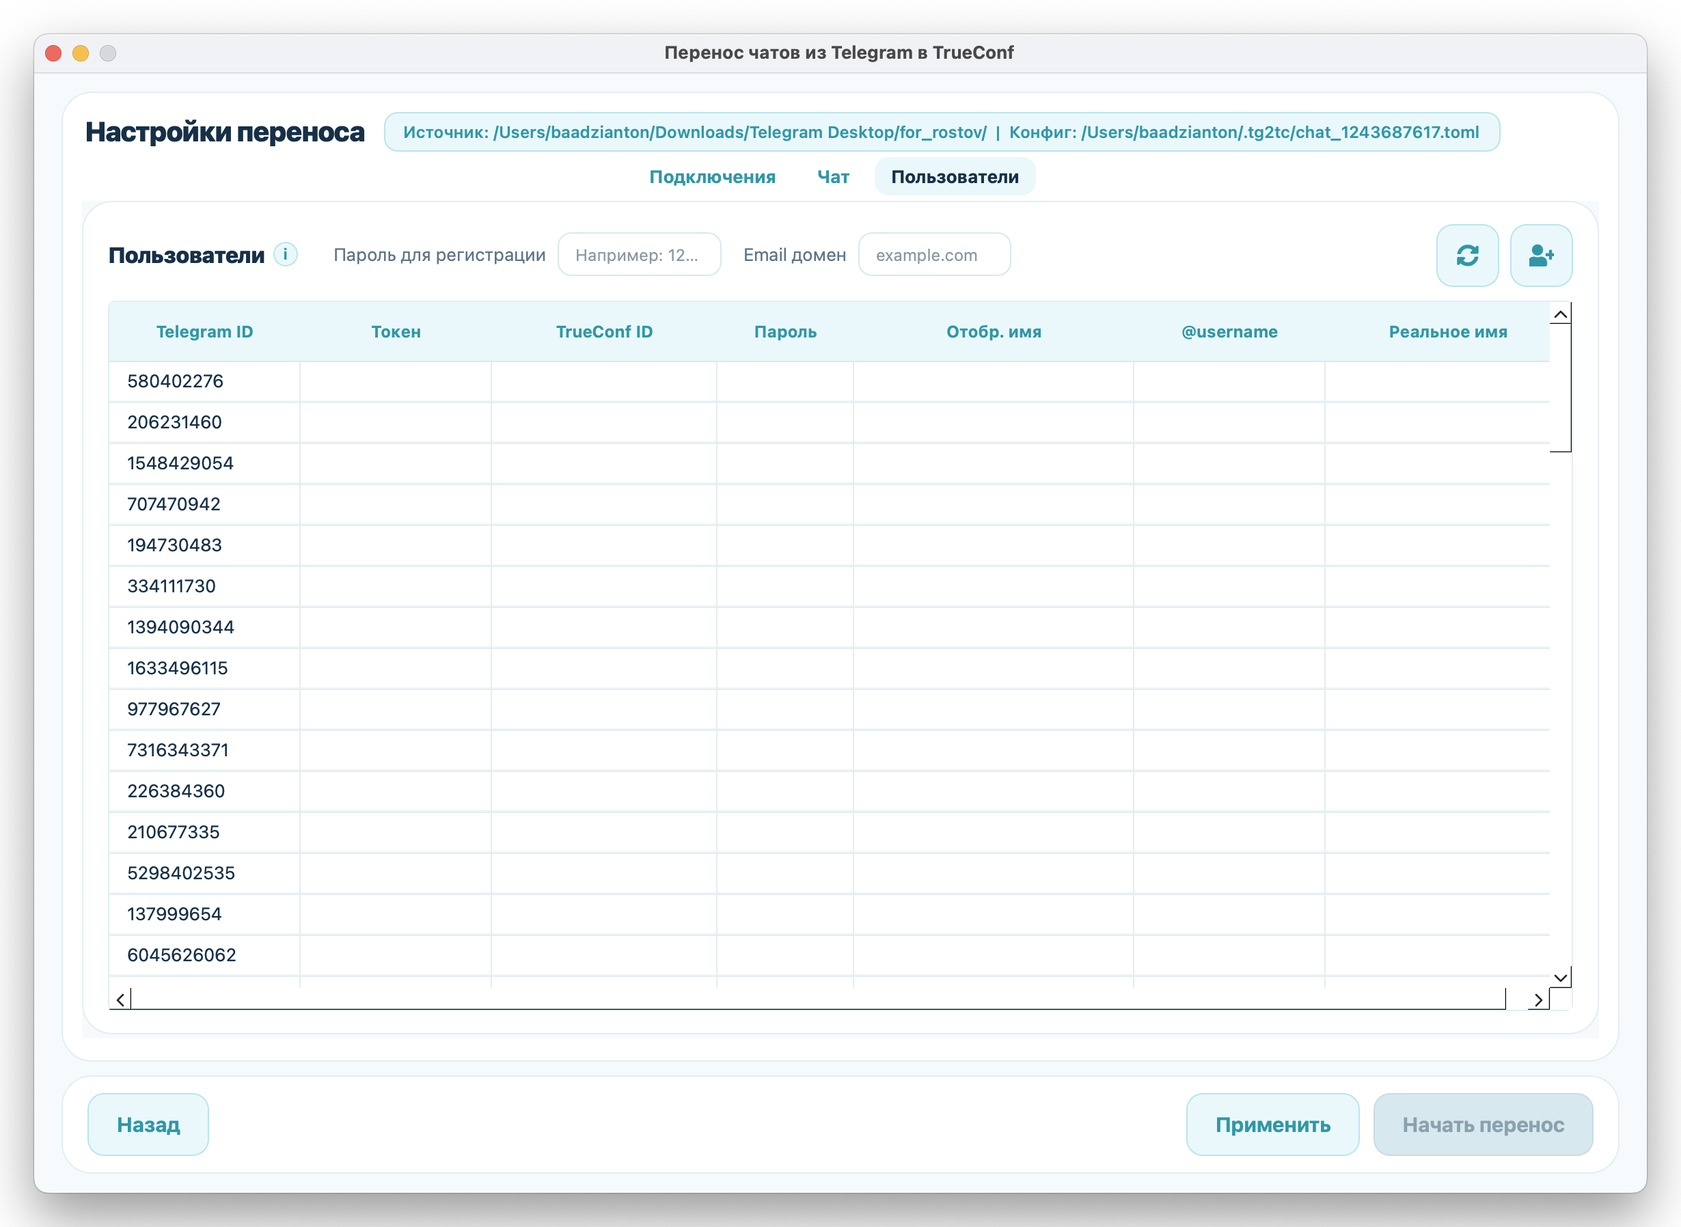
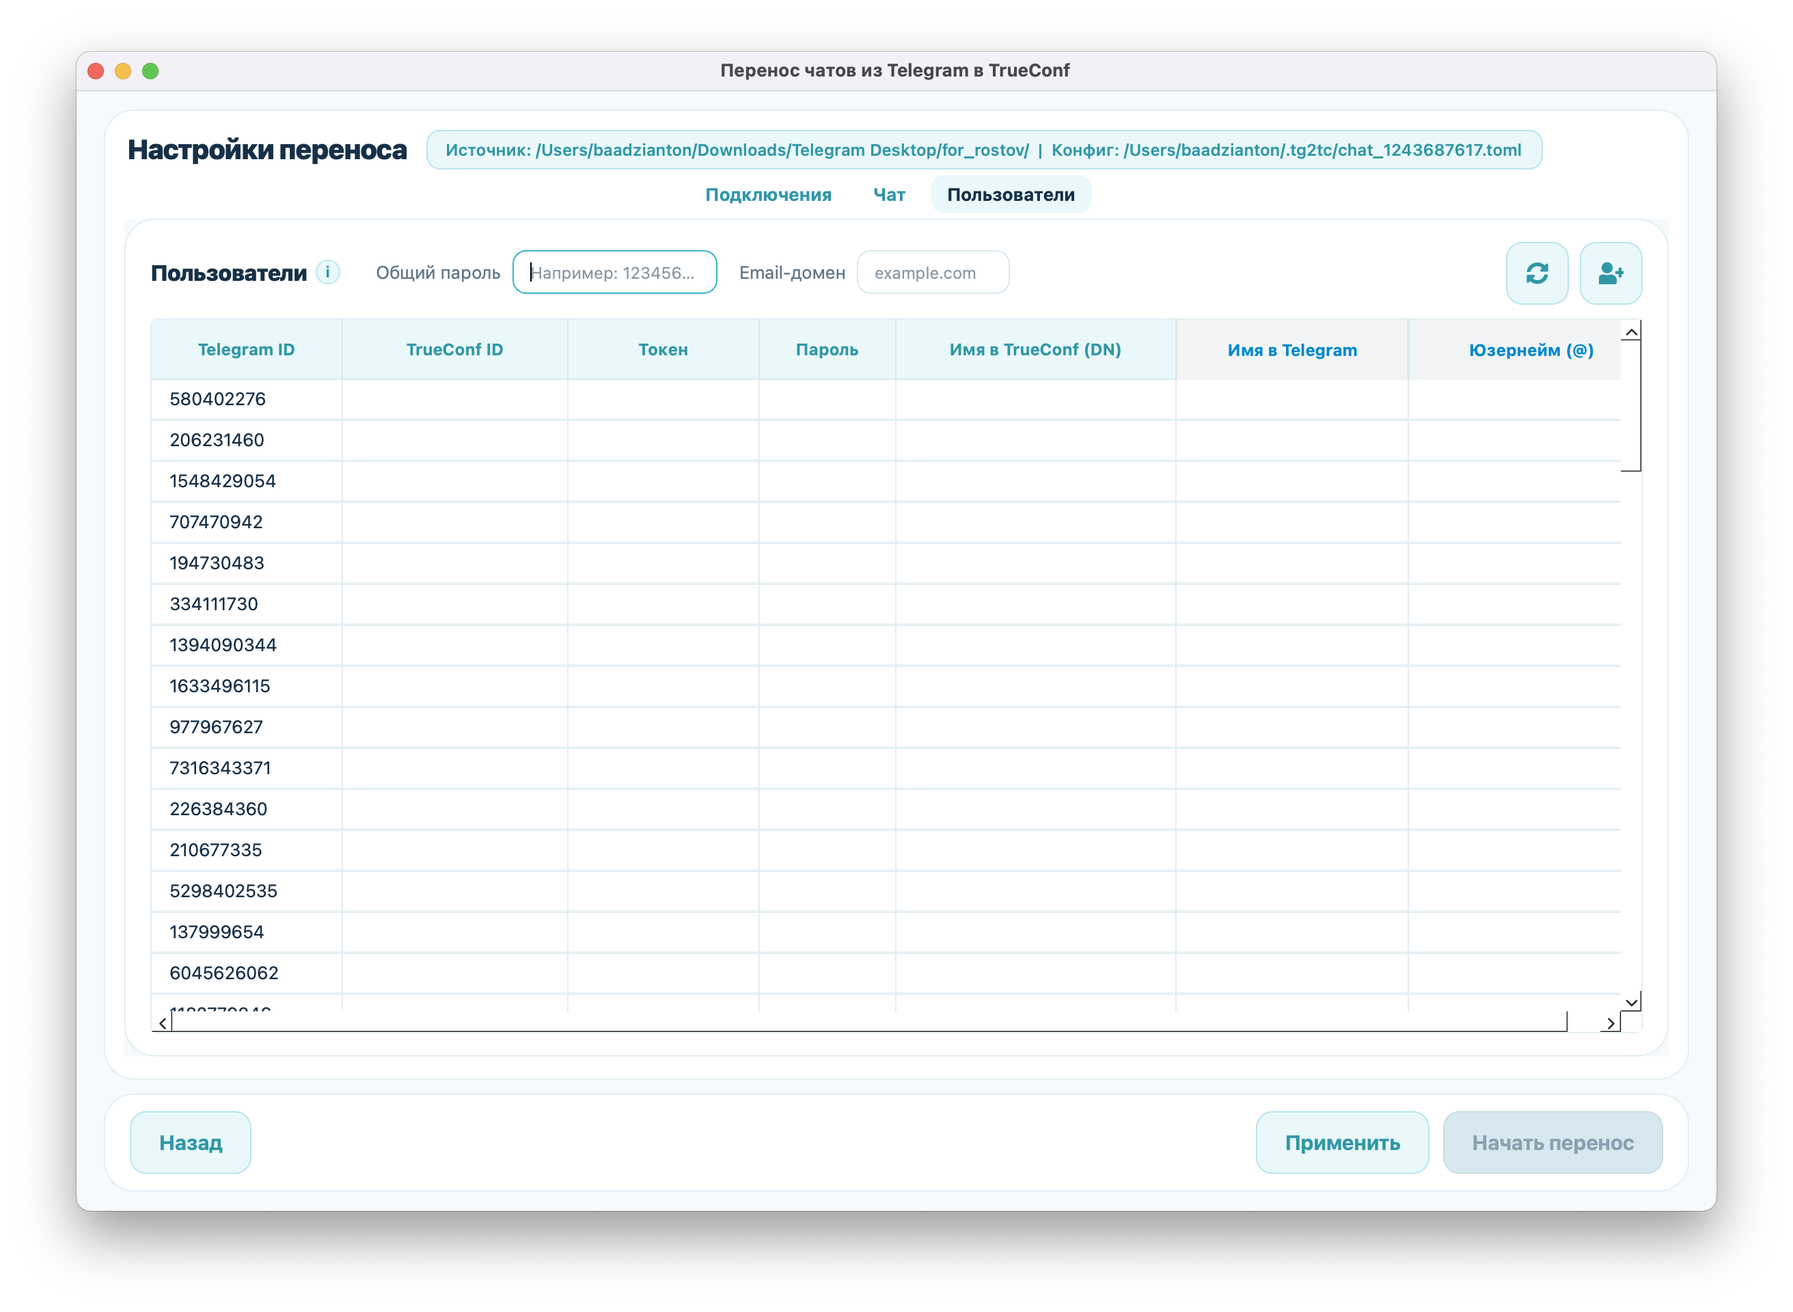
Rework Users table: reorder columns, resizable window, styled headers and context menus
- Swap TrueConf ID / Токен columns (now: TrueConf ID before Токен)
- Swap Имя в Telegram / Юзернейм columns (now: Имя before Юзернейм)
- Rename column headers: "Отобр. имя" → "Имя в TrueConf (DN)", "@username" → "Юзернейм (@)", "Реальное имя" → "Имя в Telegram"
- Make window resizable (setMinimumSize instead of setFixedSize)
- Add proportional column auto-resize on window resize (ResizableTable + MutedHeaderView)
- Style Telegram bot columns (5, 6) with muted header (#F3F4F6 bg, Telegram blue #0088CC text) and subtle cell background (#F9FAFB)
- Add vertical separators between all header sections
- Fix transparent context menus on QLineEdit and QSpinBox (QMenu styling)
- Fix transparent tooltips (QToolTip styling)
- Add tooltip for Email-домен field explaining registration email auto-format
- Make documentation link clickable in users info popup
- Rename "Пароль для регистрации" → "Общий пароль", "Email домен" → "Email-домен"
- Update load/save TOML and all column index references to match new order

diff --git a/main.py b/main.py
@@ -35,7 +35,7 @@ from PyQt6.QtWidgets import (
     QProgressBar,
 )
 from PyQt6.QtWidgets import QAbstractScrollArea
-from PyQt6.QtCore import Qt, QSize, QTimeZone, QSettings, QObject, QThread, pyqtSignal, QEventLoop
+from PyQt6.QtCore import Qt, QSize, QTimeZone, QSettings, QObject, QThread, pyqtSignal, QEventLoop, QTimer
 from PyQt6.QtGui import QDragEnterEvent, QDropEvent, QFont, QColor, QPixmap, QIcon
 import qtawesome as qta
 from PyQt6.QtSvgWidgets import QSvgWidget
@@ -246,6 +246,50 @@ class ElidedComboBox(QComboBox):
 
         painter.drawComplexControl(QStyle.ComplexControl.CC_ComboBox, option)
         painter.drawControl(QStyle.ControlElement.CE_ComboBoxLabel, option)
+
+
+class ResizableTable(QTableWidget):
+    """QTableWidget, который вызывает _resize_user_table_columns при изменении размера."""
+
+    def __init__(self, *args, **kwargs):
+        super().__init__(*args, **kwargs)
+
+    def resizeEvent(self, event):
+        super().resizeEvent(event)
+        parent = self.parent()
+        while parent is not None:
+            if hasattr(parent, "_resize_user_table_columns"):
+                parent._resize_user_table_columns()
+                break
+            parent = parent.parent()
+
+
+class MutedHeaderView(QHeaderView):
+    """Заголовок таблицы с приглушённым оформлением для колонок Telegram-бота."""
+
+    MUTED_COLUMNS = {5, 6}
+
+    def __init__(self, orientation, parent=None):
+        super().__init__(orientation, parent)
+
+    def paintSection(self, painter, rect, logicalIndex):
+        if logicalIndex in self.MUTED_COLUMNS:
+            painter.save()
+            painter.fillRect(rect, QColor("#F3F4F6"))
+            painter.setPen(QColor("#D7E9EE"))
+            painter.drawLine(rect.topLeft(), rect.bottomLeft())
+            painter.drawLine(rect.topRight(), rect.bottomRight())
+            painter.setPen(QColor("#0088CC"))
+            font = self.font()
+            font.setPixelSize(12)
+            font.setBold(True)
+            painter.setFont(font)
+            text = self.model().headerData(logicalIndex, self.orientation(), Qt.ItemDataRole.DisplayRole)
+            text_rect = rect.adjusted(0, 0, 0, 0)
+            painter.drawText(text_rect, Qt.AlignmentFlag.AlignCenter, str(text) if text else "")
+            painter.restore()
+        else:
+            super().paintSection(painter, rect, logicalIndex)
 
 
 class DragDropArea(QFrame):
@@ -490,6 +534,13 @@ class FirstScreen(QWidget):
 class SettingsScreen(QWidget):
     """Экран настроек переноса"""
 
+    EMAIL_DOMAIN_TOOLTIP = (
+        "Нужен только для регистрации пользователей: новый сервер (режим Registry) "
+        "или переключение с LDAP на Registry.<br><br>"
+        "Email формируется автоматически из TrueConf ID и домена:<br>"
+        "vasya_ivanov + mail.mycompany.ru → vasya_ivanov@mail.mycompany.ru"
+    )
+
     def __init__(
         self,
         folder_path,
@@ -545,6 +596,29 @@ class SettingsScreen(QWidget):
 
             item.setText(password)
         self.users_table.blockSignals(False)
+
+    def _resize_user_table_columns(self):
+        table = self.users_table
+        min_widths = self._col_min_widths
+        total_min = sum(min_widths)
+        viewport_width = table.viewport().width()
+        extra = max(0, viewport_width - total_min)
+
+        self._is_resizing_columns = True
+        for col in range(len(min_widths)):
+            new_width = min_widths[col] + extra * self._col_ratios[col]
+            table.setColumnWidth(col, int(new_width))
+        self._is_resizing_columns = False
+
+    def _on_user_table_section_resized(self, logical_index, _old_size, _new_size):
+        if self._is_resizing_columns:
+            return
+        table = self.users_table
+        total = sum(table.columnWidth(c) for c in range(table.columnCount()))
+        if total > 0:
+            self._col_ratios = [
+                table.columnWidth(c) / total for c in range(table.columnCount())
+            ]
 
     def load_form_from_toml(self):
         config_file = Path(self.config_path)
@@ -640,12 +714,12 @@ class SettingsScreen(QWidget):
             table.insertRow(row_index)
             row_values = [
                 str(user_data.get("telegram_id", "")),
-                str(user_data.get("access_token", "")),
                 str(user_data.get("trueconf_id", "")),
+                str(user_data.get("access_token", "")),
                 str(user_data.get("password", "")),
                 str(user_data.get("display_name", "")),
-                str(user_data.get("username", "")),
                 str(user_data.get("real_display_name", "")),
+                str(user_data.get("username", "")),
             ]
             for column_index, cell_value in enumerate(row_values):
                 item = self._create_user_table_item(
@@ -727,7 +801,7 @@ class SettingsScreen(QWidget):
                 item = self.users_table.item(row, col)
                 values.append(item.text().strip() if item is not None else "")
 
-            telegram_id, access_token, trueconf_id, password, display_name, username, real_display_name = values
+            telegram_id, trueconf_id, access_token, password, display_name, real_display_name, username = values
 
             key_item = self.users_table.item(row, 0)
             stored_key = key_item.data(Qt.ItemDataRole.UserRole) if key_item is not None else None
@@ -765,17 +839,19 @@ class SettingsScreen(QWidget):
 
         for row in range(self.users_table.rowCount()):
             telegram_item = self.users_table.item(row, 0)
-            access_token_item = self.users_table.item(row, 1)
-            trueconf_item = self.users_table.item(row, 2)
+            trueconf_item = self.users_table.item(row, 1)
+            access_token_item = self.users_table.item(row, 2)
             password_item = self.users_table.item(row, 3)
             display_name_item = self.users_table.item(row, 4)
-            username_item = self.users_table.item(row, 5)
+            real_name_item = self.users_table.item(row, 5)
+            username_item = self.users_table.item(row, 6)
 
             telegram_id = telegram_item.text().strip() if telegram_item is not None else ""
             access_token = access_token_item.text().strip() if access_token_item is not None else ""
             trueconf_id = trueconf_item.text().strip() if trueconf_item is not None else ""
             password = password_item.text().strip() if password_item is not None else ""
             display_name = display_name_item.text().strip() if display_name_item is not None else ""
+            real_name = real_name_item.text().strip() if real_name_item is not None else ""
             username = username_item.text().strip() if username_item is not None else ""
 
             user_key = ""
@@ -817,7 +893,7 @@ class SettingsScreen(QWidget):
         duplicate_trueconf_ids = set()
         trueconf_id_rows: dict[str, list[int]] = {}
         for row in range(table.rowCount()):
-            item = table.item(row, 2)
+            item = table.item(row, 1)
             value = item.text().strip() if item is not None else ""
             if not value:
                 continue
@@ -832,12 +908,12 @@ class SettingsScreen(QWidget):
         try:
             for row in range(table.rowCount()):
                 telegram_id_item = table.item(row, 0)
-                access_token_item = table.item(row, 1)
-                trueconf_id_item = table.item(row, 2)
+                trueconf_id_item = table.item(row, 1)
+                access_token_item = table.item(row, 2)
                 password_item = table.item(row, 3)
                 display_name_item = table.item(row, 4)
-                username_item = table.item(row, 5)
-                real_name_item = table.item(row, 6)
+                real_name_item = table.item(row, 5)
+                username_item = table.item(row, 6)
 
                 telegram_id = telegram_id_item.text().strip() if telegram_id_item else ""
                 access_token = access_token_item.text().strip() if access_token_item else ""
@@ -857,6 +933,7 @@ class SettingsScreen(QWidget):
                 for item in (username_item, real_name_item):
                     if item is not None:
                         item.setForeground(QColor("#6B7280"))
+                        item.setBackground(QColor("#F9FAFB"))
 
                 if not telegram_id and telegram_id_item is not None:
                     telegram_id_item.setBackground(QColor("#FFF4BF"))
@@ -1460,11 +1537,12 @@ class SettingsScreen(QWidget):
             'Если пользователи уже созданы на сервере, укажите <b>Telegram ID</b> и <b>Токен</b>, '
             'а если токен недоступен, можно использовать <b>TrueConf ID</b> и <b>Пароль</b>. '
             'Если пользователей на сервере ещё нет, предварительно зарегистрируйте их с помощью приложения или вручную. '
-            'Для регистрации дополнительно требуется <b>Отобр. имя</b>, при этом email будет создан автоматически по шаблону '
-            '<code>trueconf_id@домен</code>. Информацию о получении <b>access token</b> см. в документации.'
+            'Для регистрации дополнительно требуется <b>Имя в TrueConf (DN)</b> – отображаемое имя пользователя, при этом email будет создан автоматически по шаблону '
+            '<code>trueconf_id@домен</code>. Информацию о получении <b>access token</b> см. в <a href="https://github.com/TrueConf/telegram-trueconf-migration/blob/main/README-ru.md#%D1%80%D0%B5%D0%B3%D0%B8%D1%81%D1%82%D1%80%D0%B0%D1%86%D0%B8%D1%8F-%D0%BF%D0%BE%D0%BB%D1%8C%D0%B7%D0%BE%D0%B2%D0%B0%D1%82%D0%B5%D0%BB%D0%B5%D0%B9-%D0%B2-trueconf-server">документации</a>.'
         )
         text.setWordWrap(True)
         text.setTextFormat(Qt.TextFormat.RichText)
+        text.setOpenExternalLinks(True)
         text.setStyleSheet("font-size: 13px; color: #5E7486; line-height: 1.4;")
 
         close_button = QPushButton("Понятно")
@@ -1632,6 +1710,22 @@ class SettingsScreen(QWidget):
                 color: #8AA1AF;
                 border: 1px solid #D7E9EE;
             }
+            QMenu {
+                background-color: #FFFFFF;
+                color: #163047;
+                border: 1px solid #D7E9EE;
+                padding: 4px;
+            }
+            QMenu::item {
+                padding: 4px 20px;
+            }
+            QMenu::item:selected {
+                background-color: #EAF8FB;
+                color: #163047;
+            }
+            QMenu::item:disabled {
+                color: #8AA1AF;
+            }
             QComboBox::drop-down {
                 border: none;
                 padding-right: 8px;
@@ -1676,6 +1770,22 @@ class SettingsScreen(QWidget):
                 width: 20px;
                 border: none;
                 background: transparent;
+            }
+            QMenu {
+                background-color: #FFFFFF;
+                color: #163047;
+                border: 1px solid #D7E9EE;
+                padding: 4px;
+            }
+            QMenu::item {
+                padding: 4px 20px;
+            }
+            QMenu::item:selected {
+                background-color: #EAF8FB;
+                color: #163047;
+            }
+            QMenu::item:disabled {
+                color: #8AA1AF;
             }
             """
         )
@@ -2064,24 +2174,25 @@ class SettingsScreen(QWidget):
         password_row.setSpacing(8)
         password_row.setAlignment(Qt.AlignmentFlag.AlignLeft | Qt.AlignmentFlag.AlignVCenter)
 
-        password_label = self._create_hint_label("Пароль для регистрации")
+        password_label = self._create_hint_label("Общий пароль")
         password_label.setWordWrap(False)
         self.registration_password_input = QLineEdit()
         self._apply_input_style(self.registration_password_input)
         self.registration_password_input.setPlaceholderText("Например: 12345678")
-        self.registration_password_input.setFixedWidth(120)
+        self.registration_password_input.setFixedWidth(150)
         self.registration_password_input.setFixedHeight(30)
         self.registration_password_input.setStyleSheet(
             self.registration_password_input.styleSheet()
             + "QLineEdit { min-height: 30px; font-size: 12px; padding: 0 10px; }"
         )
         self.registration_password_input.textChanged.connect(self._apply_registration_password_to_table)
-
-        email_domain_label = self._create_hint_label("Email домен")
+        email_domain_label = self._create_hint_label("Email-домен")
         email_domain_label.setWordWrap(False)
+
         self.registration_email_domain_input = QLineEdit()
         self._apply_input_style(self.registration_email_domain_input)
         self.registration_email_domain_input.setPlaceholderText("example.com")
+        self.registration_email_domain_input.setToolTip(self.EMAIL_DOMAIN_TOOLTIP)
         self.registration_email_domain_input.setFixedWidth(112)
         self.registration_email_domain_input.setFixedHeight(30)
         self.registration_email_domain_input.setStyleSheet(
@@ -2126,16 +2237,17 @@ class SettingsScreen(QWidget):
         users_header_row.addStretch(1)
         users_header_row.addLayout(user_actions_layout, 0)
 
-        self.users_table = QTableWidget(0, 7)
+        self.users_table = ResizableTable(0, 7)
+        self.users_table.setHorizontalHeader(MutedHeaderView(Qt.Orientation.Horizontal, self.users_table))
         self.users_table.setHorizontalHeaderLabels(
             [
                 "Telegram ID",
-                "Токен",
                 "TrueConf ID",
+                "Токен",
                 "Пароль",
-                "Отобр. имя",
-                "@username",
-                "Реальное имя",
+                "Имя в TrueConf (DN)",
+                "Имя в Telegram",
+                "Юзернейм (@)",
             ]
         )
         self.users_table.verticalHeader().setVisible(False)
@@ -2167,6 +2279,7 @@ class SettingsScreen(QWidget):
                 color: #3097A6;
                 border: none;
                 border-bottom: 1px solid #D7E9EE;
+                border-right: 1px solid #D7E9EE;
                 padding: 10px;
                 font-size: 12px;
                 font-weight: 700;
@@ -2191,15 +2304,20 @@ class SettingsScreen(QWidget):
             }
             """
         )
-        self.users_table.horizontalHeader().setSectionResizeMode(QHeaderView.ResizeMode.Interactive)
-        self.users_table.horizontalHeader().setStretchLastSection(False)
+        self._is_resizing_columns = False
+        self._col_min_widths = [140, 165, 140, 100, 205, 170, 180]
+        self._col_ratios = [w / sum(self._col_min_widths) for w in self._col_min_widths]
+
         self.users_table.setColumnWidth(0, 140)  # Telegram ID
-        self.users_table.setColumnWidth(1, 140)  # Токен
-        self.users_table.setColumnWidth(2, 165)  # TrueConf ID
+        self.users_table.setColumnWidth(1, 165)  # TrueConf ID
+        self.users_table.setColumnWidth(2, 140)  # Токен
         self.users_table.setColumnWidth(3, 100)  # Пароль
-        self.users_table.setColumnWidth(4, 205)  # Отобр. имя
-        self.users_table.setColumnWidth(5, 140)  # @username
-        self.users_table.setColumnWidth(6, 180)  # Реальное имя
+        self.users_table.setColumnWidth(4, 180)  # Отобр. имя
+        self.users_table.setColumnWidth(5, 170)  # Имя в Telegram
+        self.users_table.setColumnWidth(6, 180)  # Юзернейм (@)
+
+        self.users_table.horizontalHeader().sectionResized.connect(self._on_user_table_section_resized)
+        QTimer.singleShot(0, self._resize_user_table_columns)
 
         users_layout.addLayout(users_header_row)
 
@@ -2364,7 +2482,6 @@ class SettingsScreen(QWidget):
         users_tab_layout.setContentsMargins(0, 0, 0, 0)
         users_tab_layout.setSpacing(10)
         users_tab_layout.addWidget(users_card)
-        users_tab_layout.addStretch()
 
         self.tabs.addTab(server_tab, "Подключения")
         self.tabs.addTab(chat_tab, "Чат")
@@ -2409,7 +2526,7 @@ class SettingsScreen(QWidget):
         shell_layout.addWidget(self.tabs)
 
 
-        root_layout.addWidget(settings_shell)
+        root_layout.addWidget(settings_shell, 1)
         root_layout.addWidget(footer_card)
 
 
@@ -2640,7 +2757,7 @@ default_password = ""
         super().__init__()
         self.setWindowIcon(QIcon(get_resource_path("assets/icon.png")))
         self.setWindowTitle("Перенос чатов из Telegram в TrueConf")
-        self.setFixedSize(1180, 820)
+        self.setMinimumSize(1200, 820)
 
         app_font = QFont("Roboto", 10)
         self.setFont(app_font)
@@ -2714,6 +2831,32 @@ def main():
     log_path = setup_file_logging()
     app = QApplication(sys.argv)
     app.setWindowIcon(QIcon(get_resource_path("assets/icon.png")))
+    app.setStyleSheet("""
+        QMenu {
+            background-color: #FFFFFF;
+            color: #163047;
+            border: 1px solid #D7E9EE;
+            padding: 4px;
+        }
+        QMenu::item {
+            padding: 4px 20px;
+        }
+        QMenu::item:selected {
+            background-color: #EAF8FB;
+            color: #163047;
+        }
+        QMenu::item:disabled {
+            color: #8AA1AF;
+        }
+        QToolTip {
+            background-color: #FFFFFF;
+            color: #163047;
+            border: 1px solid #D7E9EE;
+            border-radius: 6px;
+            padding: 6px 8px;
+            font-size: 11px;
+        }
+    """)
 
     window = MainWindow()
     LOGGER.info("Main window initialized, log file: %s", log_path)
